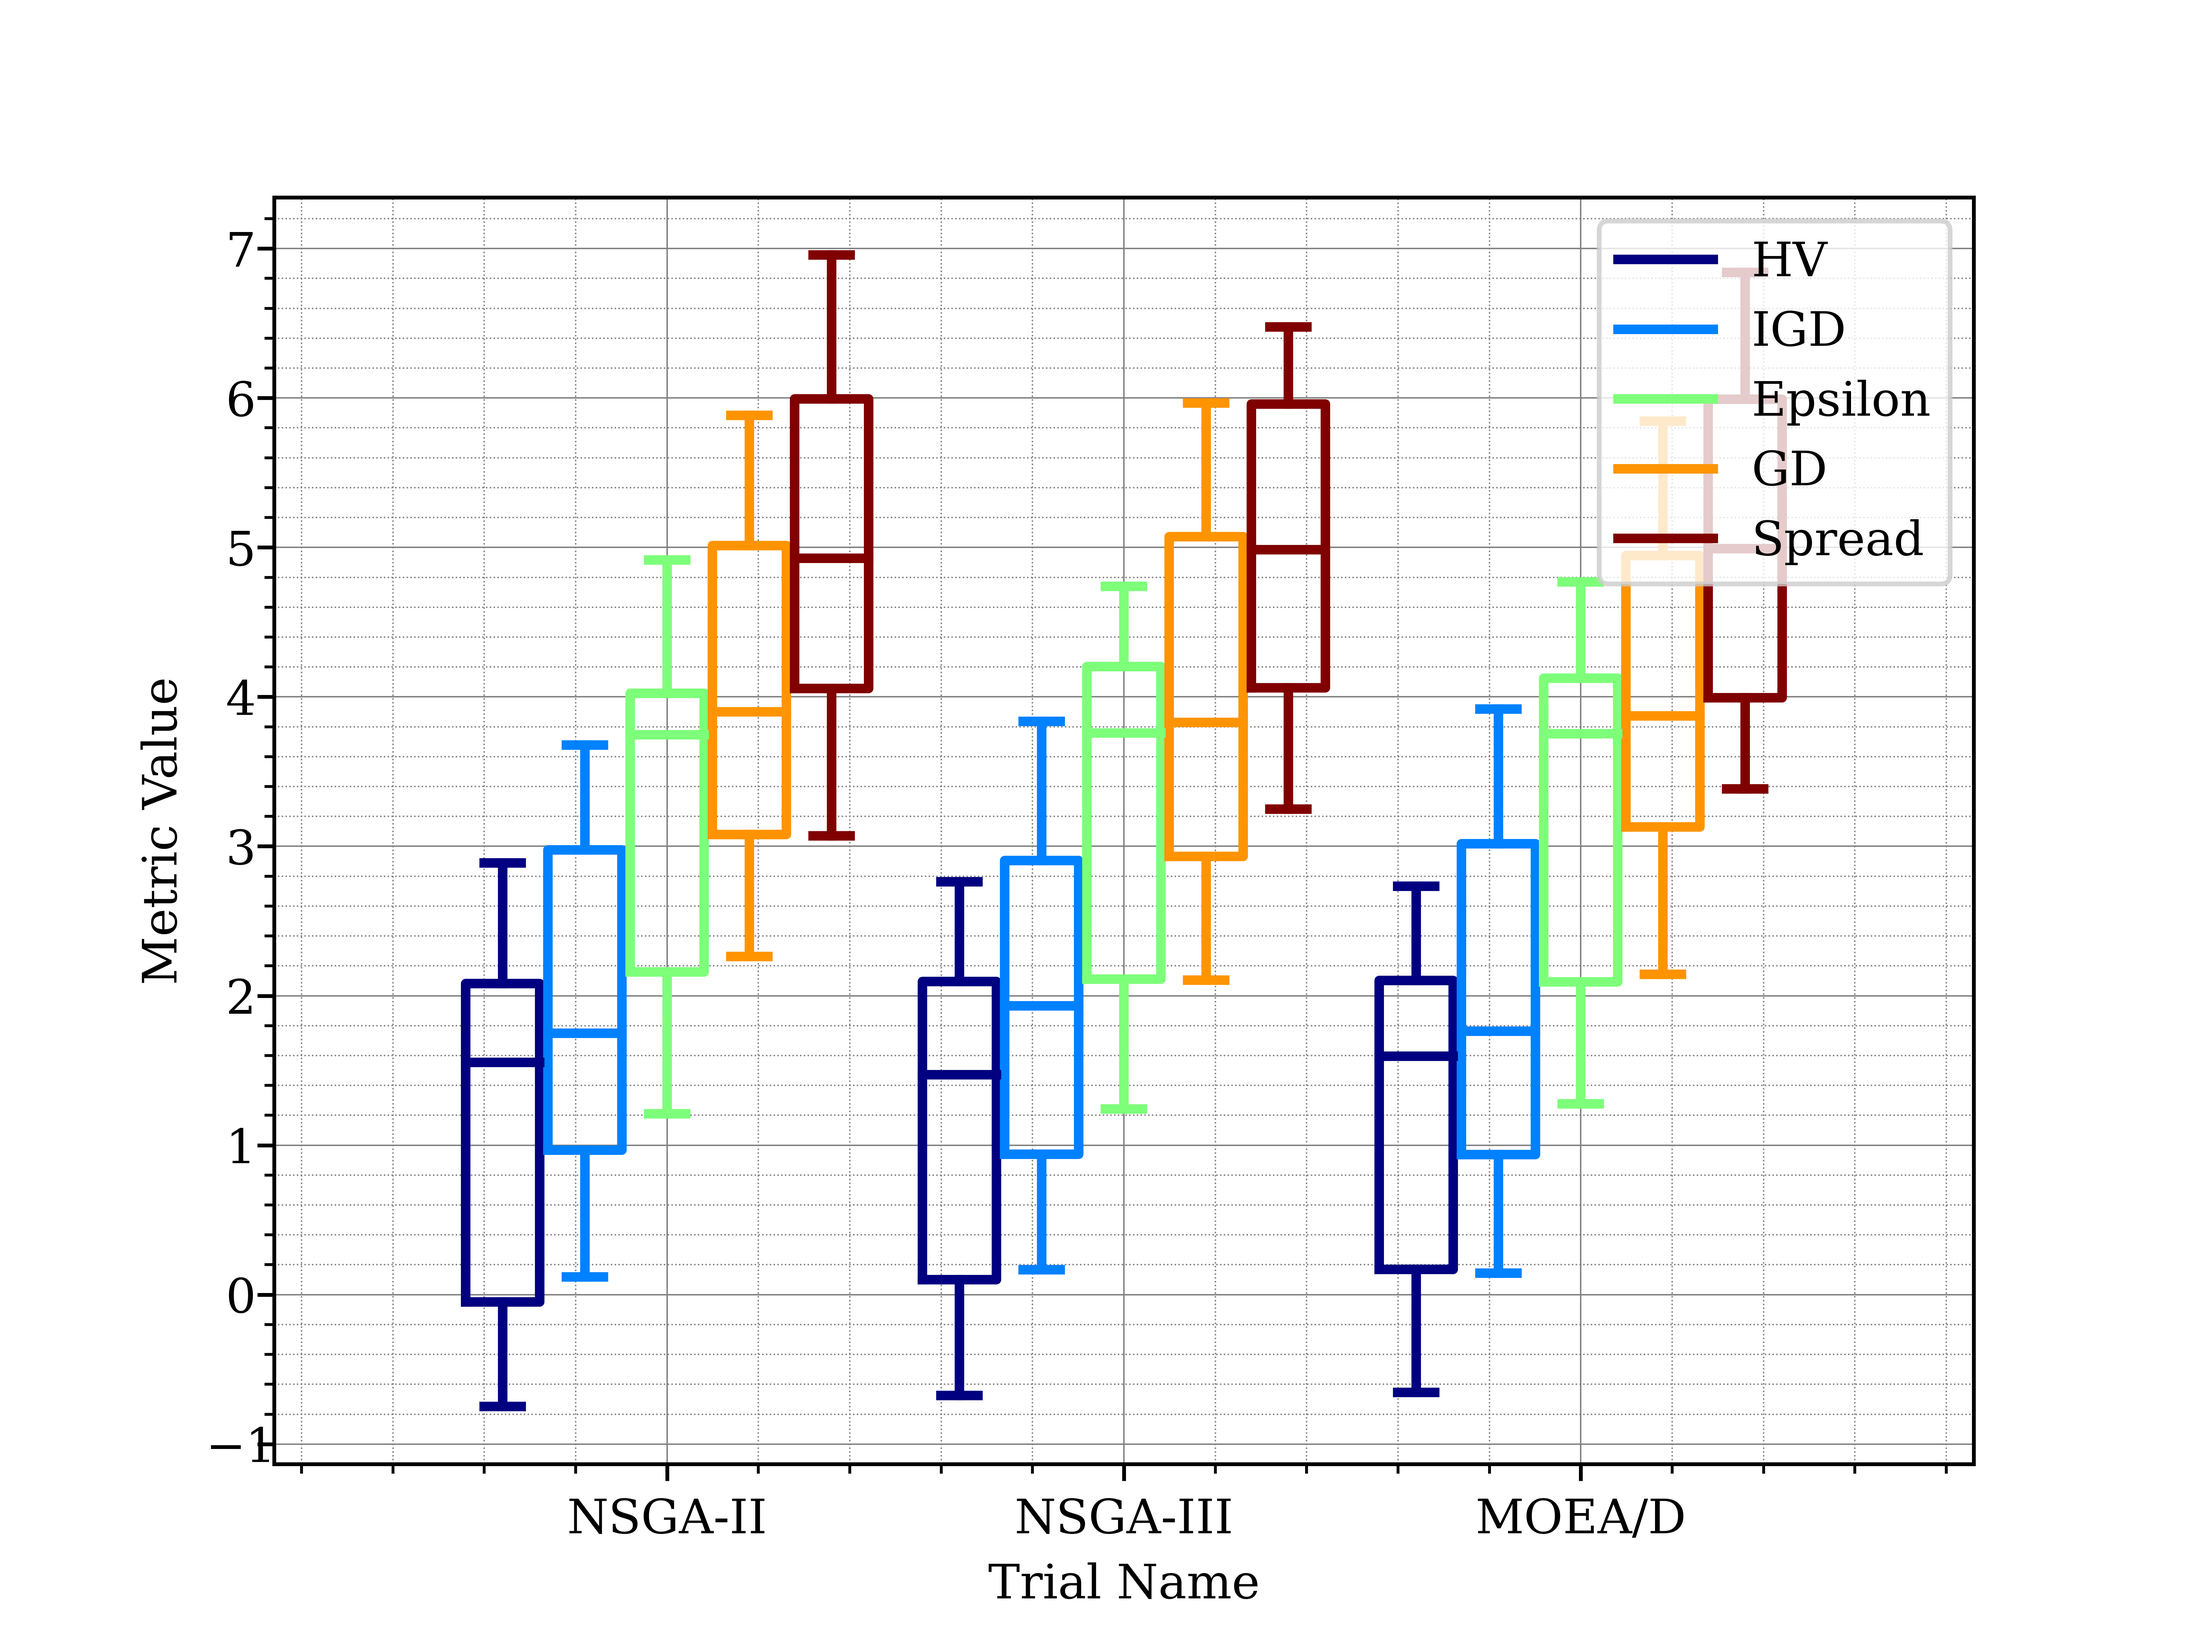
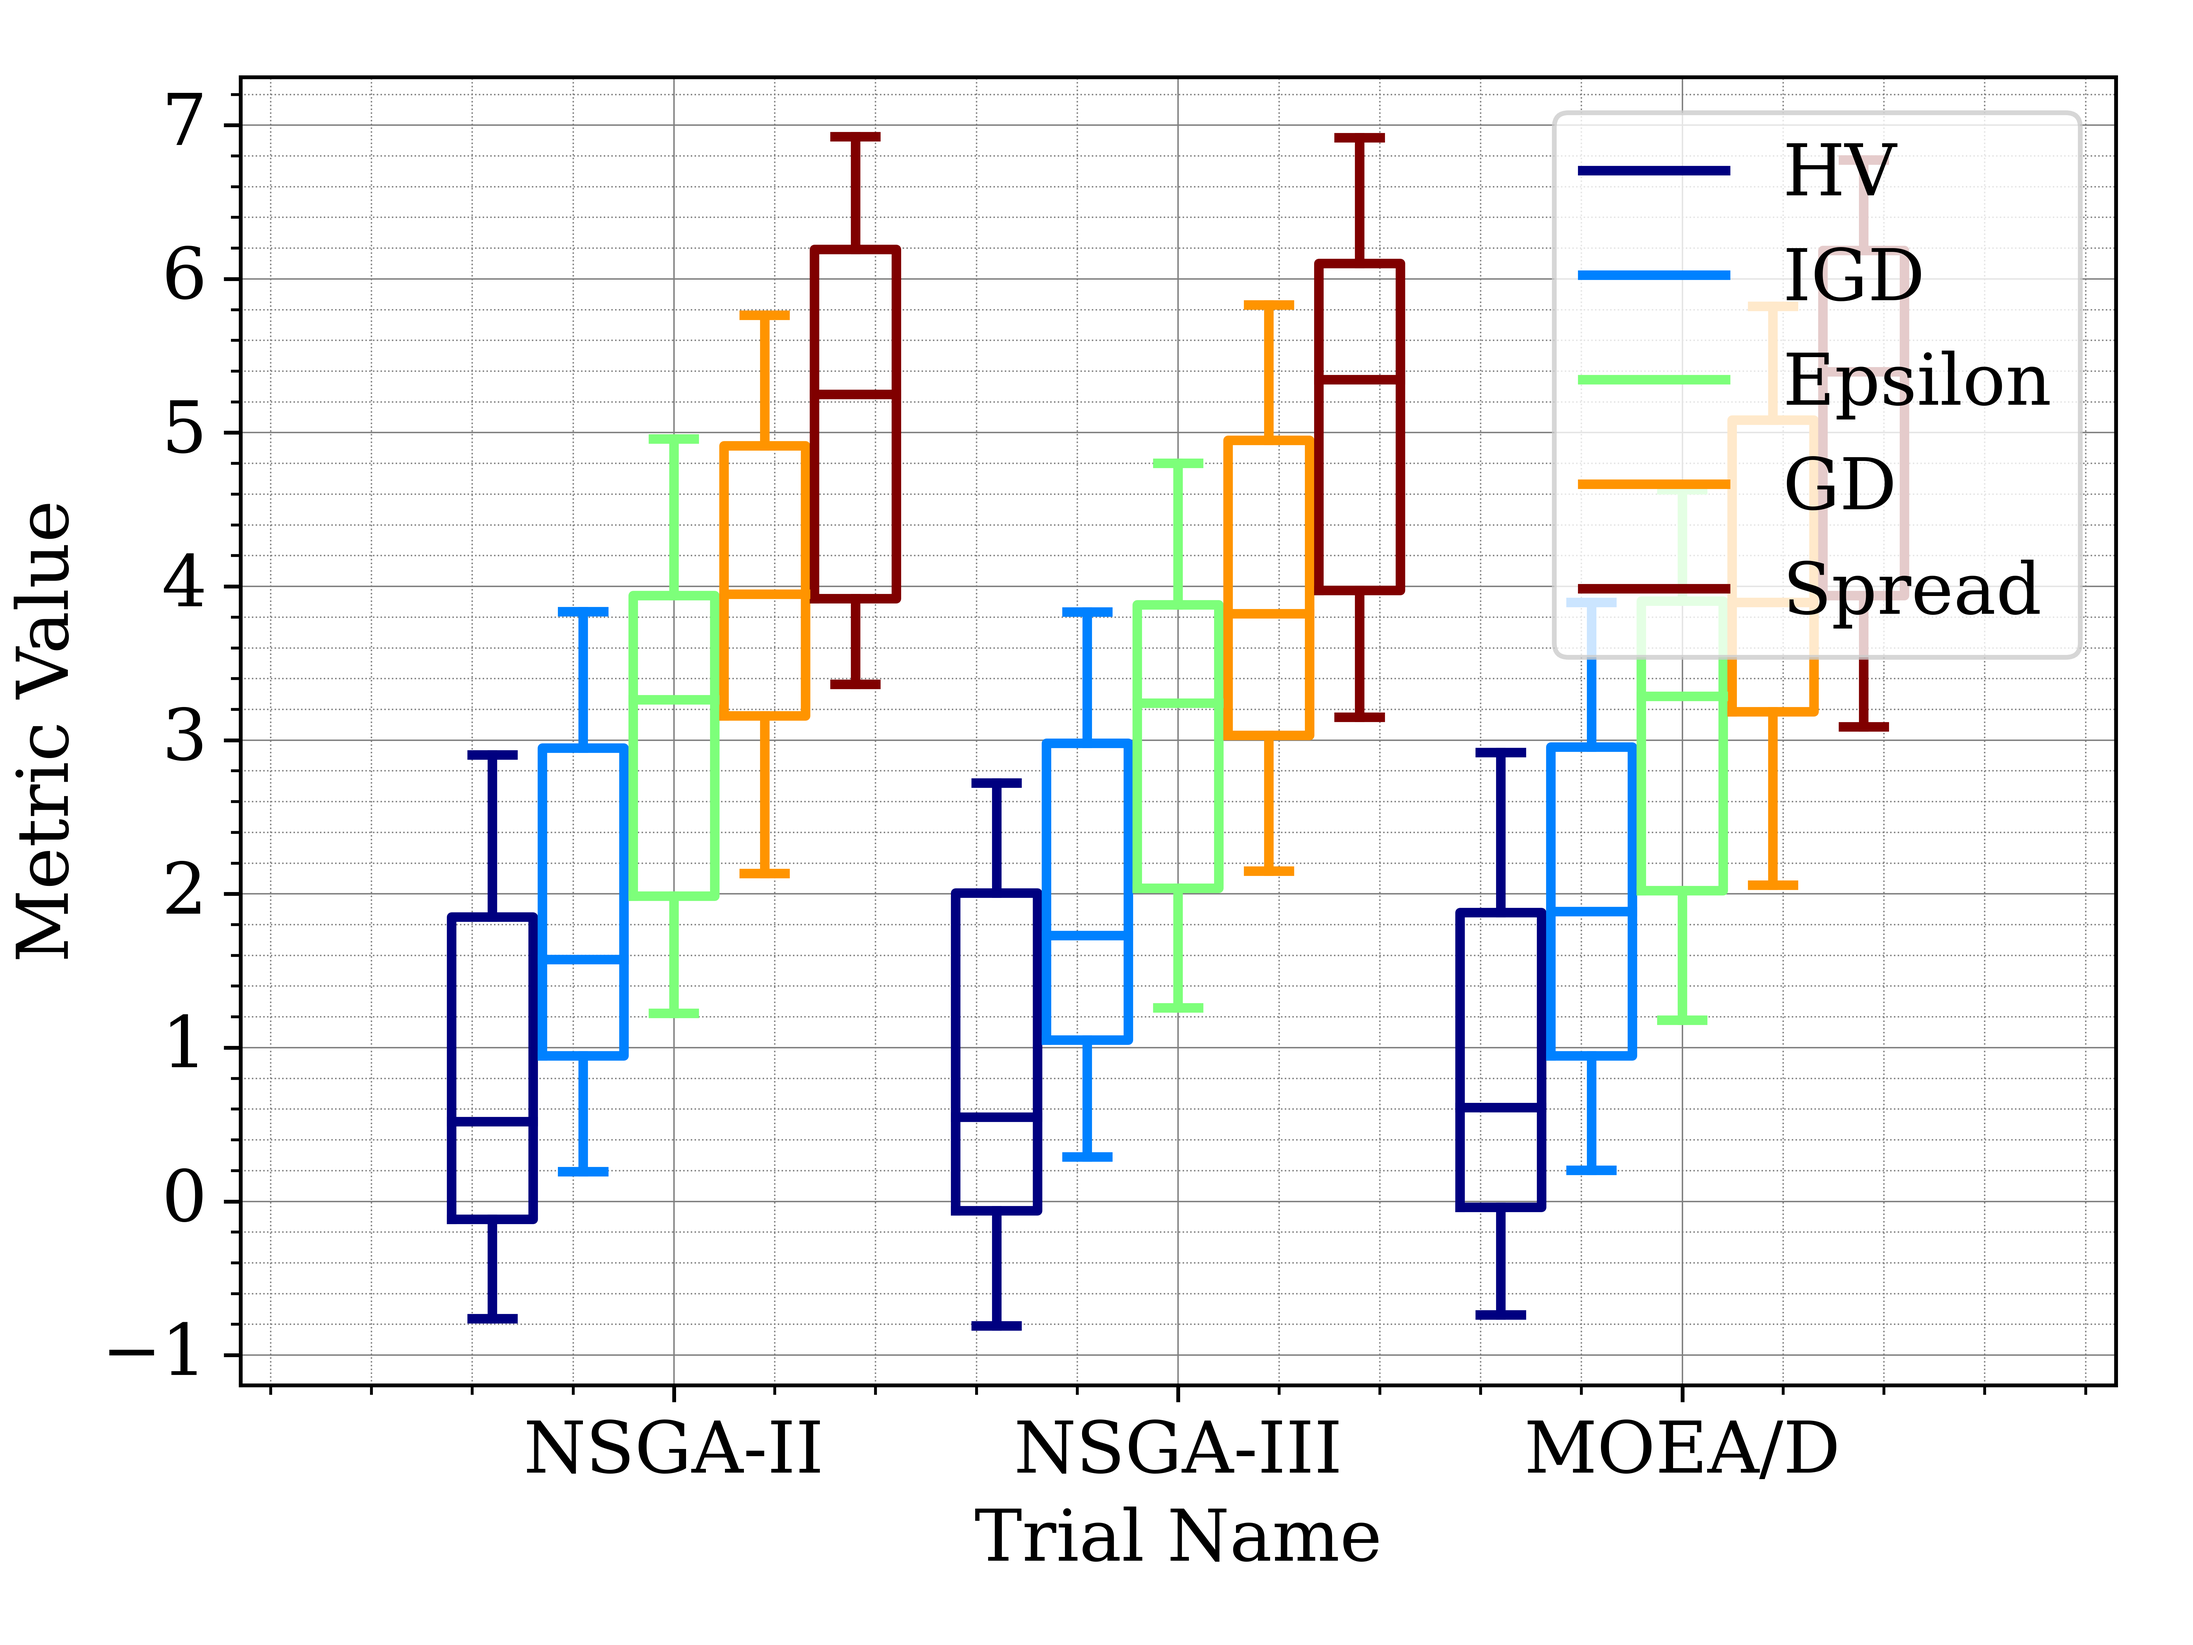
0.8.8

diff --git a/metric_visualizer/metric_visualizer.py b/metric_visualizer/metric_visualizer.py
@@ -46,7 +46,7 @@ mv_font_large = {
 }
 
 # set font for matplotlib
-matplotlib.rc("font", **mv_font_small)
+matplotlib.rc("font", **mv_font)
 
 tex_template = r"""
     \documentclass{article}
@@ -323,13 +323,16 @@ class MetricVisualizer:
         )
         plt.yticks(
             rotation=kwargs.pop("yrotation", 0),
-            horizontalalignment=kwargs.pop("horizontalalignment", "center"),
-            verticalalignment=kwargs.pop("verticalalignment", "center_baseline"),
+            horizontalalignment=kwargs.pop("horizontalalignment", "right"),
+            verticalalignment=kwargs.pop("verticalalignment", "center"),
             **kwargs.pop("yticks_kwargs", {}),
         )
 
         plt.xlabel(kwargs.pop("xlabel", "Trial Name"))
         plt.ylabel(kwargs.pop("ylabel", "Metric Value"))
+
+        if kwargs.get("tight_layout", True):
+            plt.tight_layout()
 
         # if kwargs.get("xticklabels", True):
         #     ax.set_xticklabels(
@@ -460,13 +463,16 @@ class MetricVisualizer:
         )
         plt.yticks(
             rotation=kwargs.pop("yrotation", 0),
-            horizontalalignment=kwargs.pop("horizontalalignment", "center"),
-            verticalalignment=kwargs.pop("verticalalignment", "center_baseline"),
+            horizontalalignment=kwargs.pop("horizontalalignment", "right"),
+            verticalalignment=kwargs.pop("verticalalignment", "center"),
             **kwargs.pop("yticks_kwargs", {}),
         )
 
         plt.xlabel(kwargs.pop("xlabel", "Trial Name"))
         plt.ylabel(kwargs.pop("ylabel", "Metric Value"))
+
+        if kwargs.get("tight_layout", True):
+            plt.tight_layout()
 
         # if kwargs.get("xticklabels", True):
         #     ax.set_xticklabels(
@@ -668,13 +674,16 @@ class MetricVisualizer:
         )
         plt.yticks(
             rotation=kwargs.pop("yrotation", 0),
-            horizontalalignment=kwargs.pop("horizontalalignment", "center"),
-            verticalalignment=kwargs.pop("verticalalignment", "center_baseline"),
+            horizontalalignment=kwargs.pop("horizontalalignment", "right"),
+            verticalalignment=kwargs.pop("verticalalignment", "center"),
             **kwargs.pop("yticks_kwargs", {}),
         )
 
         plt.xlabel(kwargs.pop("xlabel", "Trial Name"))
         plt.ylabel(kwargs.pop("ylabel", "Metric Value"))
+
+        if kwargs.get("tight_layout", True):
+            plt.tight_layout()
 
         # if kwargs.get("xticklabels", True):
         #     ax.set_xticklabels(
@@ -813,13 +822,16 @@ class MetricVisualizer:
         )
         plt.yticks(
             rotation=kwargs.pop("yrotation", 0),
-            horizontalalignment=kwargs.pop("horizontalalignment", "center"),
-            verticalalignment=kwargs.pop("verticalalignment", "center_baseline"),
+            horizontalalignment=kwargs.pop("horizontalalignment", "right"),
+            verticalalignment=kwargs.pop("verticalalignment", "center"),
             **kwargs.pop("yticks_kwargs", {}),
         )
 
         plt.xlabel(kwargs.pop("xlabel", "Trial Name"))
         plt.ylabel(kwargs.pop("ylabel", "Metric Value"))
+
+        if kwargs.get("tight_layout", True):
+            plt.tight_layout()
 
         # if kwargs.get("xticklabels", True):
         #     ax.set_xticklabels(
@@ -942,13 +954,16 @@ class MetricVisualizer:
         )
         plt.yticks(
             rotation=kwargs.pop("yrotation", 0),
-            horizontalalignment=kwargs.pop("horizontalalignment", "center"),
-            verticalalignment=kwargs.pop("verticalalignment", "center_baseline"),
+            horizontalalignment=kwargs.pop("horizontalalignment", "right"),
+            verticalalignment=kwargs.pop("verticalalignment", "center"),
             **kwargs.pop("yticks_kwargs", {}),
         )
 
         plt.xlabel(kwargs.pop("xlabel", "Trial Name"))
         plt.ylabel(kwargs.pop("ylabel", "Metric Value"))
+
+        if kwargs.get("tight_layout", True):
+            plt.tight_layout()
 
         # if kwargs.get("xticklabels", True):
         #     ax.set_xticklabels(

diff --git a/metric_visualizer/__init__.py b/metric_visualizer/__init__.py
@@ -5,7 +5,7 @@
 # github: https://github.com/yangheng95
 # Copyright (C) 2021. All Rights Reserved.
 
-__version__ = "0.8.7.7"
+__version__ = "0.8.8"
 __name__ = "metric_visualizer"
 
 from .metric_visualizer import MetricVisualizer
